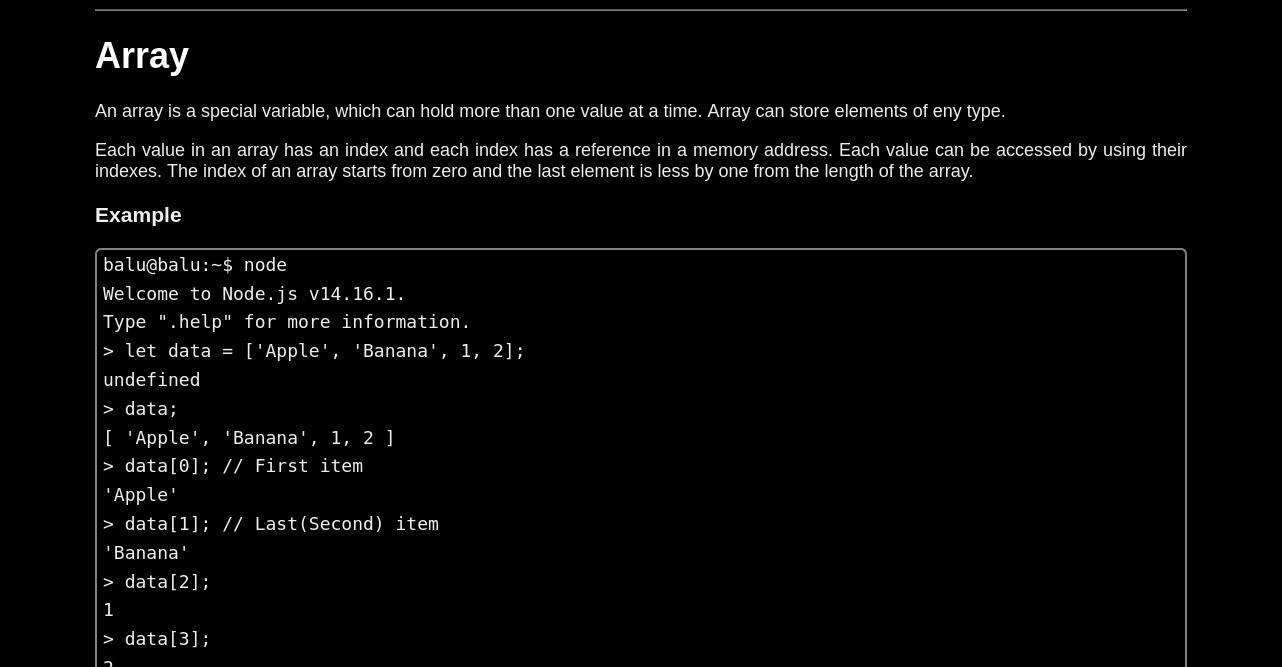
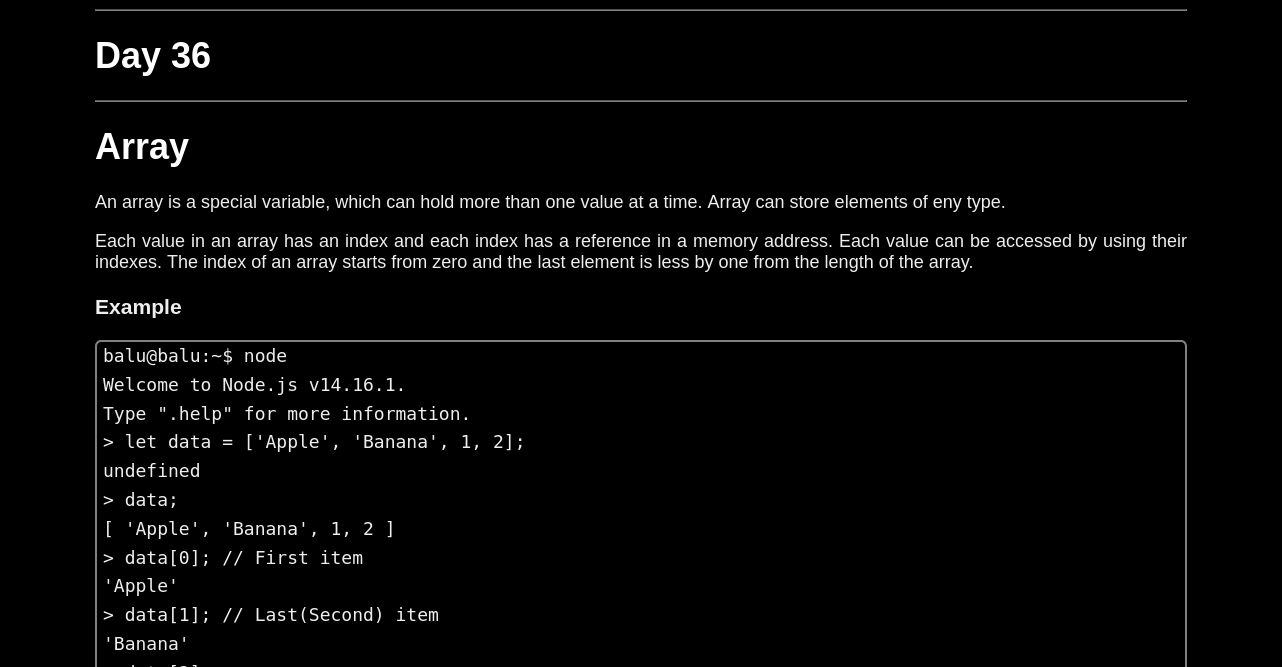
Day 36 title

diff --git a/036/index.html b/036/index.html
@@ -49,6 +49,11 @@
 <body class="d36">
     <hr>
     <h1>
+        Day 36
+    </h1>
+    <hr>
+
+    <h1>
         Array
     </h1>
     <p>
